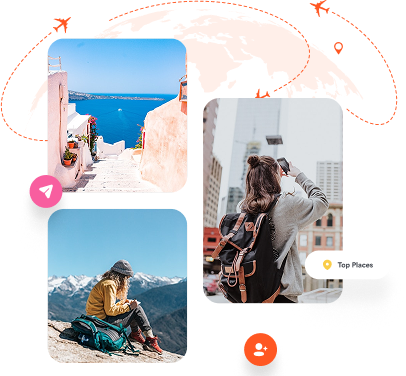
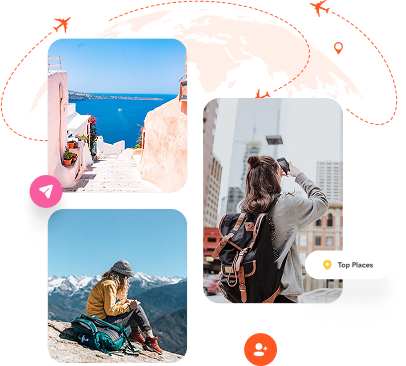
SS_A1_09: modified hero img

diff --git a/index.html b/index.html
@@ -101,7 +101,7 @@
                                 src="src/assets/images/hero-img-mobile.png"
                                 alt="Collage of Travel Images"
                                 width="406px"
-                                height="376px"
+                                height="366px"
                             />
                         </picture>
                     </div>

diff --git a/src/styles/layouts/_hero.scss b/src/styles/layouts/_hero.scss
@@ -12,7 +12,8 @@
 
     &__bg {
         position: relative;
-        padding: px-to-rem(26 8 0 14);
+        margin-top: px-to-rem(26);
+        margin-left: px-to-rem(10);
         box-sizing: border-box;
     }
 
@@ -30,7 +31,7 @@
     }
 
     &__content {
-        margin-top: px-to-rem(18);
+        margin-top: px-to-rem(27);
     }
 
     &__explorebtn {
